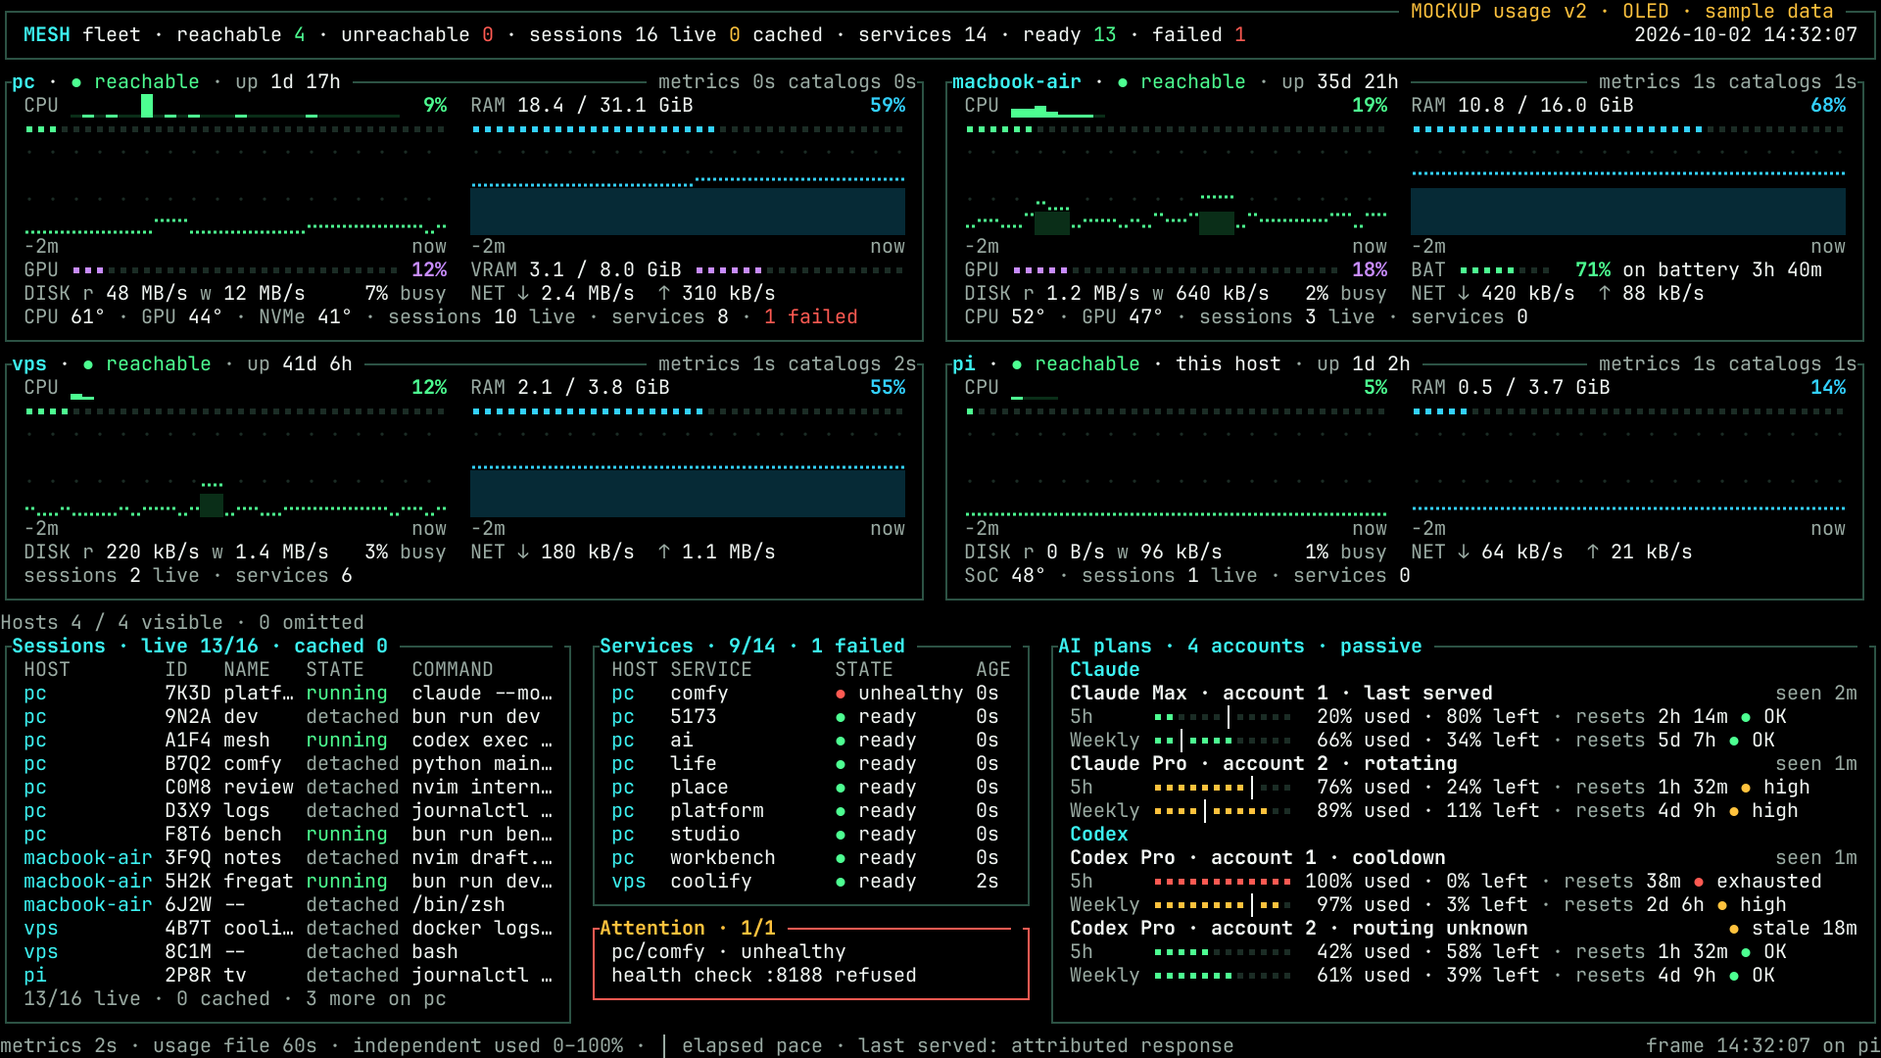
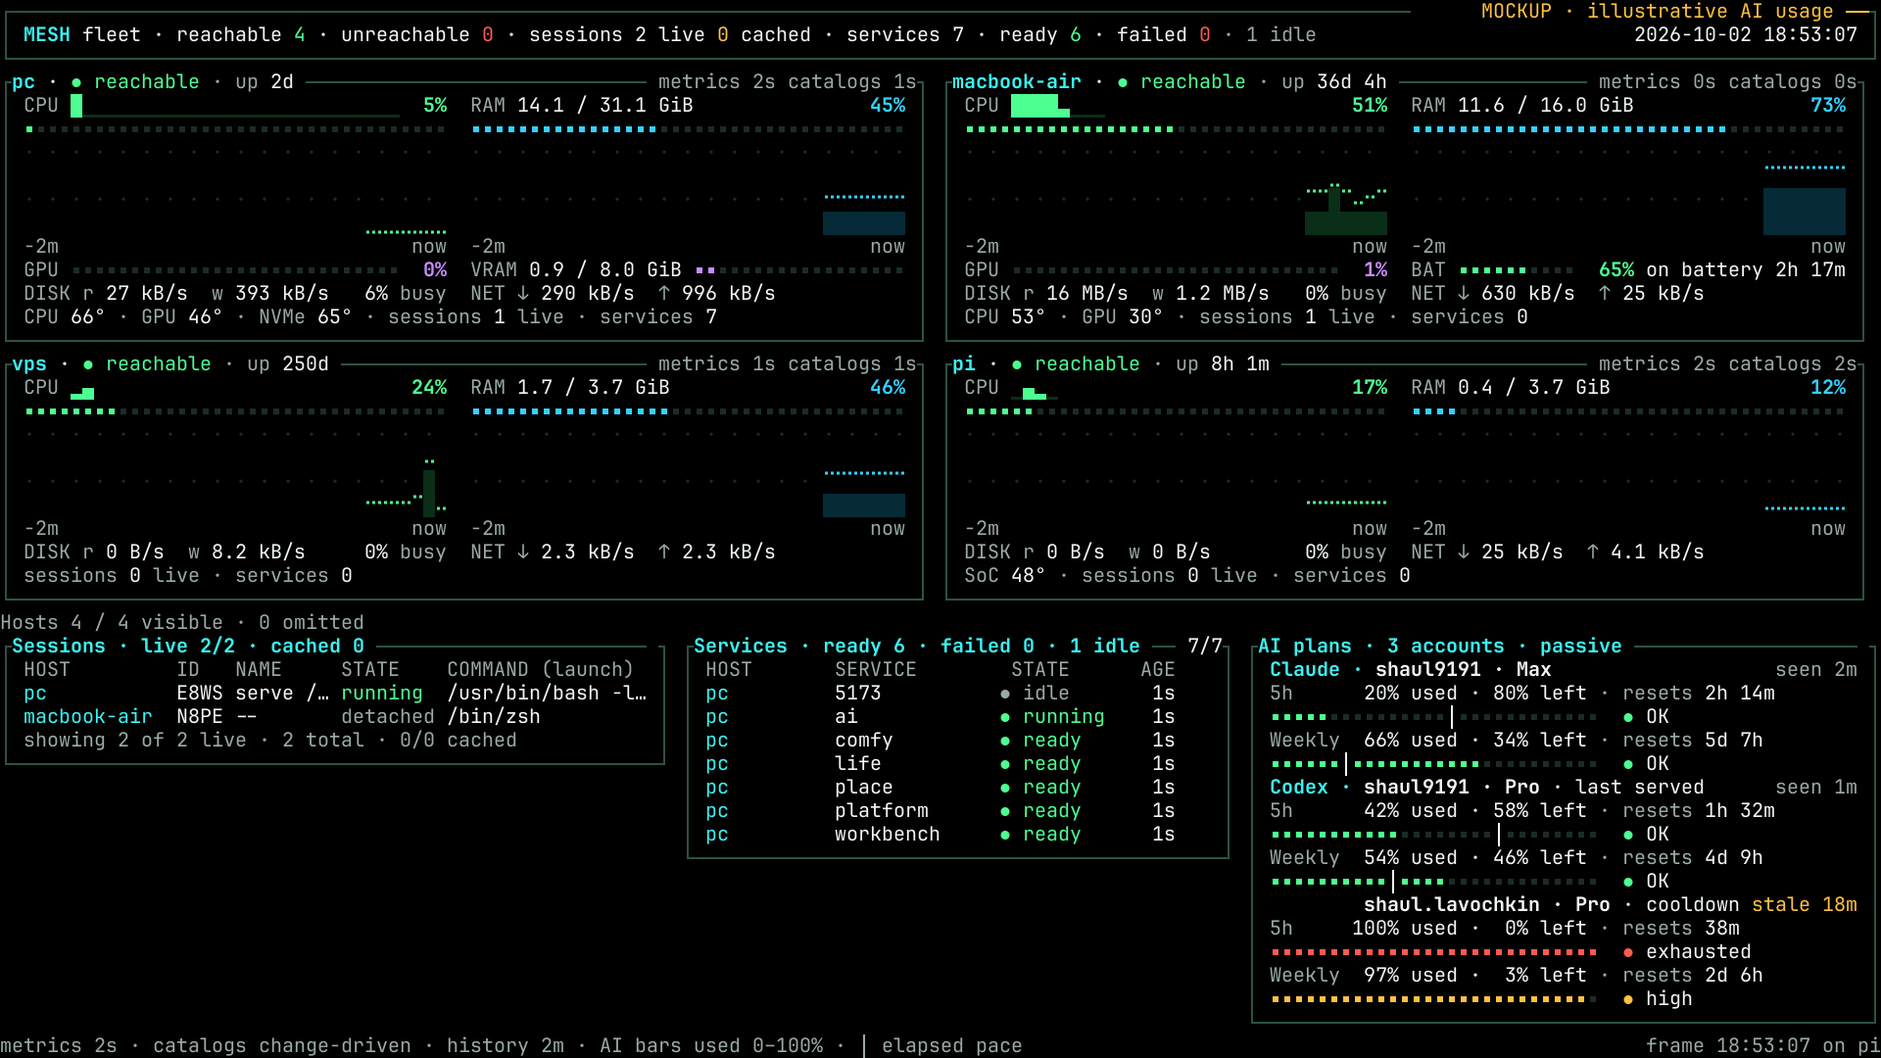
docs: align usage plans with approved October 2 dashboard
Use authoritative provider-grouped five-row account layouts and approved normal/no-data assets. Correct both Codex plans, gateway-only Claude, current management inventory, and canonical Fregat Plan 289 links.

diff --git a/docs/plan/10-usage-feed.md b/docs/plan/10-usage-feed.md
@@ -1,21 +1,36 @@
 # Generic usage feed on the TV dashboard
 
 Status: Approved, 2026-10-02. Planning/design only; no runtime changes in this PR.
+The owner's approved October 2 normal and no-data designs are authoritative;
+implementation follows independent review and merge of this planning PR.
 
-Canonical source inventory, contract, mockups and gateway implementation plan:
-[Fregat Plan 287](https://github.com/ShaulLavo/fregat/blob/plan/tv-usage/plans/287-proxy-usage-feed.md).
+Canonical source inventory, contract and gateway implementation plan:
+[Fregat Plan 289](https://github.com/ShaulLavo/fregat/blob/main/plans/289-proxy-usage-feed.md).
 This extends [07: terminal fleet dashboard](07-dashboard.md); it does not replace
 its host watch transport, session details, theme or Pi setup work.
 
-## Boundary
+## Boundary and configured accounts
 
 Mesh is a generic read-only viewer of a versioned JSON snapshot. The producer
 belongs to Fregat's existing Claude/GPT gateway tooling beside CLIProxyAPI.
-It captures Claude quota headers from normal traffic and reads the proxy's
-already-recorded per-account GPT quota/cooldown state through localhost management.
-The owner selected the proxy as the source because it rotates independently
-authorized Pro and Pro Lite accounts. Fregat's present native usage cache is
-outside this build; later Fregat consumption of this feed is a separate follow-up.
+It captures Claude quota headers from normal gateway traffic and reads the
+proxy's already-recorded per-account GPT quota/cooldown state through localhost
+management. Fregat's present native usage cache is outside this build; later
+Fregat consumption of this feed is a separate follow-up in Plan 289.
+
+The approved configured identities and order are:
+
+| Provider | Short account label | Plan | Observation path |
+| --- | --- | --- | --- |
+| Claude | `shaul9191` | Max | Passive quota headers on the owner's own Claude Code traffic through our gateway |
+| Codex | `shaul9191` | Pro | CLIProxyAPI's per-credential cached observations |
+| Codex | `shaul.lavochkin` | Pro | CLIProxyAPI's per-credential cached observations |
+
+**Both Codex accounts are Pro. Claude is gateway-only and is never pooled or
+proxied through CLIProxyAPI.** No Claude session traffic means its last actual
+observation ages into stale data; there is no background Claude quota probe.
+Providers own ordered lists of accounts: Gemini or another provider is an
+additional group, with no provider-specific layout branch.
 
 No provider collector, OAuth handling, quota probing, account selection or reset
 logic belongs in Mesh. No new dependency is needed: Go's HTTP/JSON support and
@@ -24,17 +39,19 @@ metrics and the session protocol.
 
 ## Producer prerequisite and URL
 
-The running proxy currently has management disabled. The coordinator will enable
-loopback-only management with a generated secret in a mode-0600 file, then restart
-at a quiet moment: live Sol/GPT calls and subagents can be interrupted. This is
-scheduled work in Plan 287, not performed by this plan PR. The Pi never receives
-that secret or an inference key.
+Management is already enabled on loopback port **18317**. Its private key file is
+`/work/cli-proxy-api/management-key`; the gateway is on **8318**. These are current
+operational facts supplied by the owner, not portable test constants. The
+producer uses validated runtime configuration. Management stays loopback-only;
+the key's contents never enter a feed, log, screenshot or Pi configuration.
+There is no management enablement or proxy restart prerequisite left in this
+plan, and this documentation-only PR makes no live changes or provider calls.
 
 A dedicated sanitized directory is served through a **tailnet-only isolated
 static route**, for example `https://omarchy.mesh.shaulavo.dev/ai-usage/v1.json`.
-This example route is not provisioned yet. It is separate from the on-demand
-`/ai` backend and keeps serving the last file while inference sleeps. Static
-serving belongs to the existing Mesh daemon, not a new collector service.
+This example route is not provisioned by this PR. It is separate from the
+on-demand `/ai` backend and keeps serving the last file while inference sleeps.
+Static serving belongs to the existing Mesh daemon, not a new collector service.
 
 Feed reads must not start `/ai`, extend its idle deadline, invoke readiness or
 model discovery, touch providers, refresh credentials, drain the proxy usage
@@ -44,7 +61,7 @@ Origin/device pairing from Fregat is not the Go client's authentication mechanis
 
 ## Contract to consume
 
-Use Plan 287's JSON v1 schema, not a provider response shape:
+Use Plan 289's JSON v1 schema, not a provider response shape:
 
 - `schemaVersion`, publication `generatedAt`, and all known `accounts`.
 - Account opaque stable `id`, generic `provider`, safe `label`, `plan`, `state`,
@@ -60,7 +77,10 @@ primary window is five hours, or infer 100% used from a generic 429. Unknown
 account selection stays unknown. Installed proxy management's `active` is
 credential availability and its recent-request counts are ten-minute buckets;
 neither proves which account is currently serving. Multiple accounts can serve
-concurrently. `last served` is permitted only with positively attributed traffic.
+concurrently. `last served` is permitted only with positively attributed traffic;
+it identifies the last account known to have served a response, not an account
+currently in flight. `rotating` describes pool membership; `cooldown` describes
+an observed account-routing fact independently of a window's percentage.
 
 Preserve all known identities at startup with no-data/null timestamps. Preserve
 last valid data through failures. After a reset passes, show `reset passed ·
@@ -78,52 +98,105 @@ awaiting traffic` or no current data; never refill to 0% without an observation.
       timeout or HTTP failure retains the previous valid snapshot whole and
       exposes freshness/unreachable state; do not replace it with an empty view.
 - [ ] Compute reset countdown locally. Use each window's lastSeenAt for age and
-      a 15-minute stale threshold. Keep account/window order stable. Feed fetches
-      never change lastSeenAt or fabricate routing information.
+      a 15-minute stale threshold. Keep provider/account/window order stable.
+      Feed fetches never change lastSeenAt or fabricate routing information.
 - [ ] Compose the panel with existing `internal/tui/dashboard_tables.go` and
       `dashboard_render.go` glyphs/themes. Keep renderer provider-agnostic.
 
-## 160×45 wall layout (approved by the owner 2026-10-02)
+## Authoritative 160×45 wall layout
 
-![Four accounts, OLED](images/usage-panel.png)
+![Approved OLED layout: four hosts and three accounts, illustrative usage](images/usage-panel.png)
 
-[Overflow: six accounts across three providers](images/usage-panel-overflow.png)
+![Approved OLED no-data layout: all three configured accounts remain visible](images/usage-panel-no-data.png)
 
-Four host cards keep their four-row graphs in rows 0–26, in RAM order, with the OLED theme. Rows 27–43 are three columns:
-- Sessions: columns 0–56.
-- Services and Attention: columns 58–104.
-- Usage: columns 106–159.
+The images are exact copies of the owner's approved October 2 normal and no-data
+PNGs. They supersede the earlier three-row account and overflow mockups. Both
+are 1920×1080 renderings of a 160×45 terminal grid, with OLED high contrast as the
+TV default. The header's `MOCKUP` label and all AI values are illustrative, not a
+live Pi capture.
 
-Usage groups accounts under a provider line (Claude, Codex, and future providers). Each account takes three rows:
-- an identity line: plan, neutral account label, `last served` / `rotating` / `cooldown` / `routing unknown`, and `seen` / `stale`;
-- one line per aggregate window (5h, weekly), each with its own meter, % used, % left, reset countdown and status word.
+Rows 0–26 retain four host cards and the host count, ordered by installed RAM:
+`pc`, `macbook-air`, `vps`, `pi`. All four rows of each CPU/RAM graph remain.
+Rows 27–43 retain the three-column split:
 
-When accounts don't fit, the provider line shows `+N more`; the panel never pages or scrolls.
+| Columns | Width | Content |
+| --- | ---: | --- |
+| 0–56 | 57 | Sessions: both live sessions, HOST / ID / NAME / STATE / COMMAND (launch), visible/total counts |
+| 57 | 1 | Gap |
+| 58–104 | 47 | Services: all seven services in live order, HOST / SERVICE / STATE / AGE, ready/failed/idle totals and 7/7 visible |
+| 105 | 1 | Gap |
+| 106–159 | 54 | AI plans: 17 rows including frame, 50 inner cells, three accounts and six full 28-cell meters |
 
-Sessions retain 13/16 visible rows, Services 9/14, Attention the full unhealthy
-service name and reason. Session names/commands narrow and its per-row age drops;
-host catalog ages remain. Service width narrows; Attention's reason gains a body
-line. No host data/graph height or reported failure disappears.
+Each account takes **five rows**: one identity/age line, then two lines per
+window. Each provider has exactly one heading, sharing its first account's
+identity line; following accounts are indented beneath it. The identity line
+shows the short account name, plan, observed routing badge where available, and
+`seen` / `stale` age. The two visible windows per account are **5h** and **Weekly**:
 
-- `20% used · 80% left · resets 2h 14m`; account `seen 2m` or `stale 18m`.
-- Existing 28-cell used-share meter: green below 75%, amber at ≥75%, red exhausted;
-  explicit `OK`, `high`, `exhausted` words and status dot duplicate color.
-- `│` shows elapsed share of a known quota window, not predicted capacity. Hide
-  it when stale, exhausted, reset-passed or unknown. Unknown has no filled bar.
-- No-data keeps known account labels and `seen —`; expected-window placeholders
-  cannot assert a real unobserved allowance.
-- Keep model-scoped windows in the feed; visible extra-window/omitted-account
-  counts accompany stable ordering when the panel cannot fit them. No auto-paging.
-- At 80×24 and intermediate widths, use compact account/window text, shorten
-  session detail first and preserve fleet/failure visibility. Below the supported
-  minimum, use the dashboard's resize state. Add deterministic resize tests.
+1. Window label, `% used`, `% left`, and `resets <countdown>`.
+2. The full 28-cell used-share meter, status dot and `OK` / `high` / `exhausted`.
 
-All sample percentages/countdowns/routing badges are illustrative, including Pro
-Lite; live proxy quotas were unavailable before management enablement. PNG/SVG/TXT
-were generated and PNGs read back. The generator asserts 160×45 and compares four
-host cards cell-for-cell with v2. Existing Current palette has ≥4.5:1 text/status
-contrast; numbers/status words give non-color encoding. This is design evidence,
-not a running Pi capture.
+The normal sample shows Claude Max `shaul9191` at 20% / 66%, Codex Pro
+`shaul9191` at 42% / 54% with `last served`, and Codex Pro `shaul.lavochkin`
+at 100% / 97% with `cooldown` and `stale 18m`. These are sample observations,
+not claims about today's provider quota or proven live account selection.
+
+The no-data sample retains the same provider groups, labels, plans and five-row
+slots, with `seen —`, `No data yet`, and `Waiting for normal traffic` in each
+window slot. No unobserved routing badge or filled meter appears. Expected-window
+placeholders describe the display slots, not an unobserved real allowance.
+
+Sessions gives 38 columns and Services gives 17 columns to AI plans compared
+with the historical v2 design. Both live sessions and all seven services still
+fit. Keep both host names in full; session names and launch commands shorten
+first. Per-session age stays on the host card. Attention retains rows 39–42 and
+two body lines for an unhealthy service's full name and reason when needed; it
+is absent while there are no failures. Service row 43 is spare. No host
+measurement, graph height, live session, service or reported failure is sacrificed.
+
+Keep model-scoped windows in the generic feed, with an extra-window count on
+the account line when they do not fit. Show explicit omitted-account counts
+when capacity is exceeded. Keep provider/account/window order stable; never
+auto-page or scroll. At 80×24 and intermediate widths, use compact account/window
+text, shorten session detail first and preserve fleet/failure visibility. Below
+the supported minimum, use the dashboard's resize state. Test these separately;
+the approved PNGs specify the 160×45 wall, not unverified smaller layouts.
+
+## Meter, theme and freshness rules
+
+Each window is a ratio against its own allowance. Use the existing 28-cell `▪`
+meter; percentages are never summed into a pool.
+
+- OLED: green below 75%, amber at ≥75%, red when exhausted. Use each theme's
+  existing `good`, `cached` and `failure` semantic roles, not account colors.
+  The status dot and `OK`, `high`, `exhausted` words duplicate color encoding.
+- Numbers and status words use the existing text role; only meter marks and
+  status dots use status colors. Tracks and graph fills stay recessive.
+- The pale `│` is elapsed share: `100 × (1 − (reset − now)/windowLength)`,
+  clamped to 0–100. It is an even-use guide, not predicted request capacity.
+  Hide it for stale, exhausted, reset-passed or unknown-length observations.
+- `seen 2m` ages the actual upstream observation. `stale 18m` preserves the
+  last-seen values after 15 minutes. File publication never refreshes this age.
+- A cooldown is a routing fact. A generic HTTP 429 never establishes 100% used;
+  the exhausted sample represents an illustrative provider quota observation.
+- When reset passes, retain explicitly historical data (`reset passed · awaiting
+  traffic`) or no current data. Never silently refill the meter.
+
+Support **all six existing themes** unchanged: `current`, `rose-pine`,
+`rose-pine-moon`, `oled`, `kanagawa`, `gruvbox-material`. OLED is the approved
+TV default; selecting another theme changes semantic role values, not layout,
+identity, thresholds or wording. The approved OLED text/status roles all clear
+4.5:1 against black, checked in the design generator against Mesh's theme table.
+Do not invent colors or claim these two PNGs verify the other five themes.
+Implementation must check every theme plus Unicode/ASCII fallbacks. Full account
+names, plans, routing badges, ages and window values must fit; only launch
+commands and session names may shorten first.
+
+The approved source report's TXT grids are the equivalent readable tables;
+its generator asserts exactly 45 rows of 160 Unicode cells, validates panel
+budgets, and preserves all four host cards between usage states. A terminal TV
+has no hover interaction. No chart generator, browser preview, new palette or
+additional mockup variants are introduced by this documentation PR.
 
 ## Narrow checks and delivery
 
@@ -132,24 +205,28 @@ not a running Pi capture.
       bounded bodies/timeouts, bad schema and last-good retention. Counters prove
       no extra request caused by screen renders or multiple consumers.
 - [ ] Dashboard projection/render snapshots at 160×45 with four hosts/three
-      accounts; no-data/stale/75%/100%/reset-passed, unknown routing, model windows,
+      accounts, provider headings once and five rows per account; all six themes;
+      no-data/stale/75%/100%/reset-passed, unknown routing, model windows,
       account overflow, ASCII fallback, 80×24 and resizing. Run only affected Go
       package/tests; `go vet` and the existing delivery gates when code lands.
 - [ ] Integration proof with inference asleep: repeated static GETs leave `/ai`
       asleep and its idle deadline unchanged. With producer unreachable, keep
       prior data and observe no wake call. Production/provider probes are not CI.
-- [ ] Read real terminal screenshots against the approved mockup, then verify on
-      the Pi TV. Keep machine-specific proof outside portable committed tests.
-- [ ] Commit/push owned paths, independent review, then update Mesh/Pi and the
-      gateway/static route at the coordinator's quiet moment. No runtime deploy
-      or proxy restart in this documentation-only PR.
+- [ ] Read real terminal screenshots against both approved mockups, then verify
+      on the Pi TV. Keep machine-specific proof outside portable committed tests.
+- [ ] Commit/push owned paths and obtain independent review before implementation.
+      Ship the implemented gateway/static route and Mesh/Pi only in the subsequent
+      implementation run. This planning PR makes no live changes, restarts,
+      provider calls or deployments and is not merged by its author.
 
 ## Acceptance
 
 All three configured accounts are independently visible, including no-data/stale
-ones. Every observed window has used/left/reset/freshness; unknown stays unknown.
-Reads add **zero provider calls, zero inference demand, and zero host wake-ups**.
-Four hosts remain visible at the target TV size. Setup does not give the Pi
+ones, with both Codex labels shown as Pro and Claude `shaul9191` as Max through
+the gateway only. Every observed window has used/left/reset/freshness; unknown
+stays unknown. Reads add **zero provider calls, zero inference demand, and zero
+host wake-ups**. Four hosts, both live sessions, all seven services and any
+failure reason remain visible at the target TV size. Setup does not give the Pi
 provider credentials. Exact active attribution can remain unknown without
 blocking this feature. Fregat's own active probes remain unchanged until its
 separately scoped feed-consumer follow-up.

diff --git a/docs/plan/07-dashboard.md b/docs/plan/07-dashboard.md
@@ -2,7 +2,12 @@
 
 Status: Approved, 2026-10-01. Implementation follows the active audit.
 
-[Plan 10](10-usage-feed.md) adds a generic passive usage-feed panel; provider collection stays in Fregat's gateway tooling.
+[Plan 10](10-usage-feed.md) adds the Approved October 2 AI plans panel and is
+authoritative for the 160×45 wall layout, normal/no-data states and meter rules.
+Provider collection stays in Fregat's gateway tooling under
+[Fregat Plan 289](https://github.com/ShaulLavo/fregat/blob/main/plans/289-proxy-usage-feed.md).
+This planning PR updates no live services; implementation follows independent
+review and merge.
 
 **Paused 2026-10-01 (owner):** resumes after [plan 08](08-streaming-and-performance.md) step 4. The monitor then reads hosts through `state.watch` instead of polling; see plan 08, "Plan 07 changes".
 
@@ -42,15 +47,25 @@ cached ages, and red for reported failures. The terminal grid, compact meters, a
 square borders supply the hacker aesthetic. Readability matters more than glow
 or decorative effects.
 
-![TV layout with synthetic data](assets/dashboard-wall.png)
+![Approved October 2 OLED wall with illustrative AI usage](images/usage-panel.png)
 
-This is an Opus-generated design mockup with sample machines and measurements,
-not a running dashboard. Labels were checked against this plan and corrected
-for the polling cadence. The [SVG source](assets/dashboard-wall.svg) preserves
-the layout.
+[Approved no-data wall](images/usage-panel-no-data.png) retains all three known
+accounts. These owner-approved mockups supersede the earlier synthetic wall as
+the layout authority; they are designs, not running Pi captures.
 
-Start with cards at roughly 140 columns by 40 rows, a table below that, and a
-compact list at 80 by 24. Confirm the breakpoints with real terminal rendering.
+The TV target is **160×45** cells: rows 0–26 retain four RAM-ordered host cards
+(`pc`, `macbook-air`, `vps`, `pi`) and all four graph rows. Rows 27–43 split into
+Sessions (columns 0–56), Services/Attention (58–104) and AI plans (106–159).
+Both live sessions and all seven services fit; Attention keeps rows 39–42 for
+an unhealthy service's full name and reason. AI plans groups providers once,
+with five rows per account and six full 28-cell meters. Claude `shaul9191` is
+Max, observed only through the gateway and never pooled/proxied through
+CLIProxyAPI. Codex `shaul9191` and `shaul.lavochkin` are both Pro. Keep the
+reader/rendering generic for future provider groups, such as Gemini; no
+provider-specific layout branches. Plan 10 defines stale, no-data, reset-passed,
+unknown routing and explicit overflow counts.
+
+Keep a compact list at 80 by 24 and confirm breakpoints with real terminal rendering.
 Below the minimum, show a readable resize message. Use room-distance readability
 to choose the foot font size, initially aiming for about 150–180 columns. The
 current 480-column console is too dense for this purpose.
@@ -64,8 +79,12 @@ Prioritize reported failures in the service summary. Keep cached session counts
 separate from live observations. There is no paging, filtering, scrolling, or
 keyboard-dependent recovery in wall mode.
 
-Use Mesh's existing theme stack, restrained borders, consistent CPU/RAM colors,
-and clear labels. Status text must remain understandable without color.
+Use all six existing themes (`current`, `rose-pine`, `rose-pine-moon`, `oled`,
+`kanagawa`, `gruvbox-material`) with OLED high contrast as the TV default.
+Retain semantic CPU/RAM/status roles, restrained borders and clear labels;
+theme selection changes colors, not layout. Status text must remain
+understandable without color. Plan 10's AI values use text roles, with status
+colors confined to meter marks and dots.
 Use Unicode graphs in foot and simple block/ASCII fallbacks on the Linux console.
 Adapt btop's graph and terminal fallback choices and bottom's space allocation;
 neither becomes a runtime dependency.
